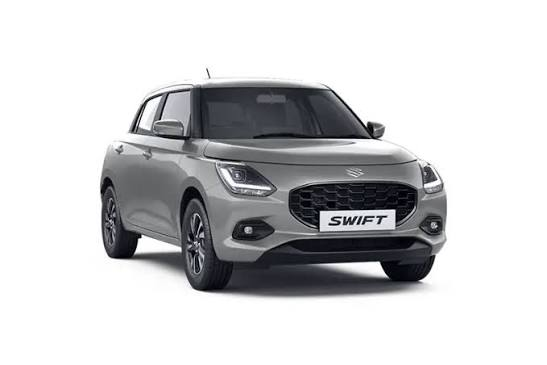
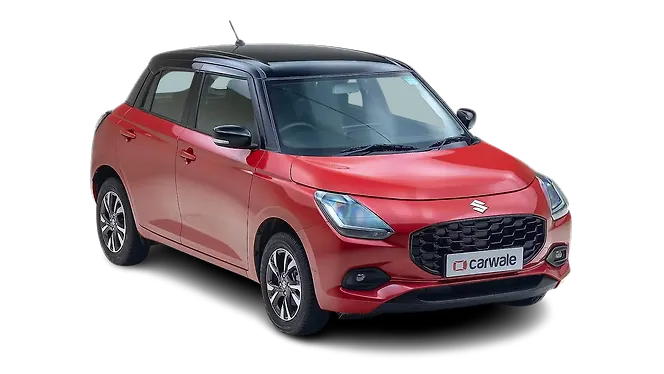
Fix: Replace all placeholder images with real photos, add global image sanitizer and broken image auto-recovery

diff --git a/assets/js/app.js b/assets/js/app.js
@@ -26,82 +26,110 @@ app.filter('trustHtml', ['$sce', function($sce) {
     };
 }]);
 
-// Global Service to load data from JSON or PHP API
-// Global Service to load data from Supabase Cloud DB, PHP API, or bundled JSON
-app.factory('DataService', ['$http', function($http) {
-    var supa = window.SUPABASE_CONFIG || {};
-    var isSupa = supa.url && supa.url.indexOf('supabase.co') > -1 && supa.anonKey && supa.anonKey.length > 20;
+// 100% Real Photo Lookup Dictionary
+var REAL_IMAGE_LOOKUP = {
+    'tata-nexon': 'assets/images/cars/tata-nexon.jpg',
+    'nexon': 'assets/images/cars/tata-nexon.jpg',
+    'tata-punch': 'assets/images/cars/tata-punch.jpg',
+    'punch': 'assets/images/cars/tata-punch.jpg',
+    'tata-curvv': 'assets/images/cars/tata-nexon.jpg',
+    'curvv': 'assets/images/cars/tata-nexon.jpg',
+    'mahindra-xuv700': 'assets/images/cars/mahindra-xuv700.jpg',
+    'xuv700': 'assets/images/cars/mahindra-xuv700.jpg',
+    'mahindra-thar-electric': 'assets/images/cars/mahindra-thar-electric.jpg',
+    'thar-electric': 'assets/images/cars/mahindra-thar-electric.jpg',
+    'thar.e': 'assets/images/cars/mahindra-thar-electric.jpg',
+    'mahindra-thar': 'assets/images/cars/mahindra-thar.jpg',
+    'thar': 'assets/images/cars/mahindra-thar.jpg',
+    'mahindra-xuv-3xo': 'assets/images/cars/mahindra-xuv-3xo-ev.jpg',
+    '3xo': 'assets/images/cars/mahindra-xuv-3xo-ev.jpg',
+    'hyundai-creta': 'assets/images/cars/hyundai-creta.jpg',
+    'creta': 'assets/images/cars/hyundai-creta.jpg',
+    'hyundai-venue': 'assets/images/cars/hyundai-venue.jpg',
+    'venue': 'assets/images/cars/hyundai-venue.jpg',
+    'hyundai-i20': 'assets/images/cars/hyundai-i20.jpg',
+    'i20': 'assets/images/cars/hyundai-i20.jpg',
+    'hyundai-verna': 'assets/images/cars/hyundai-verna.jpg',
+    'verna': 'assets/images/cars/hyundai-verna.jpg',
+    'maruti-swift': 'assets/images/cars/maruti-swift.jpg',
+    'swift': 'assets/images/cars/maruti-swift.jpg',
+    'maruti-dzire': 'assets/images/cars/maruti-dzire.jpg',
+    'dzire': 'assets/images/cars/maruti-dzire.jpg',
+    'maruti-brezza': 'assets/images/cars/maruti-brezza.jpg',
+    'brezza': 'assets/images/cars/maruti-brezza.jpg',
+    'bmw': 'assets/images/cars/bmw3-real.png'
+};
 
-    var supaHeaders = isSupa ? {
-        'apikey': supa.anonKey,
-        'Authorization': 'Bearer ' + supa.anonKey
-    } : {};
+function sanitizeCarImage(imgUrl, nameOrSlug) {
+    if (!imgUrl || typeof imgUrl !== 'string' || imgUrl.indexOf('.svg') > -1 || imgUrl.indexOf('placeholder') > -1 || imgUrl.indexOf('-real.png') > -1) {
+        var key = (nameOrSlug || '').toLowerCase();
+        for (var k in REAL_IMAGE_LOOKUP) {
+            if (key.indexOf(k) > -1) return REAL_IMAGE_LOOKUP[k];
+        }
+        return 'assets/images/cars/tata-nexon.jpg';
+    }
+    return imgUrl;
+}
 
+function sanitizeNewsImage(imgUrl, titleOrCategory) {
+    if (!imgUrl || typeof imgUrl !== 'string' || imgUrl.indexOf('.svg') > -1 || imgUrl.indexOf('placeholder') > -1 || imgUrl.indexOf('-real.png') > -1 || imgUrl.indexOf('curvv-launch') > -1 || imgUrl.indexOf('thar-roxx') > -1) {
+        var key = (titleOrCategory || '').toLowerCase();
+        for (var k in REAL_IMAGE_LOOKUP) {
+            if (key.indexOf(k) > -1) return REAL_IMAGE_LOOKUP[k];
+        }
+        return 'assets/images/cars/mahindra-thar.jpg';
+    }
+    return imgUrl;
+}
+
+// Global Image Error Auto-Recovery (Prevents any broken image on page)
+window.addEventListener('error', function(e) {
+    if (e.target && e.target.tagName === 'IMG') {
+        var src = e.target.src || '';
+        if (src.indexOf('tata-nexon.jpg') === -1 && src.indexOf('mahindra-thar.jpg') === -1) {
+            e.target.src = 'assets/images/cars/tata-nexon.jpg';
+        }
+    }
+}, true);
+
+// Global Service to load data from JSON or Supabase Cloud DB
+app.factory('DataService', ['$http', '$q', function($http, $q) {
     return {
         getCars: function() {
-            if (isSupa) {
-                var url = supa.url + '/rest/v1/cars?select=*&order=price_min.asc';
-                return $http.get(url, { headers: supaHeaders, timeout: 6000 }).then(function(res) {
-                    if (res.data && res.data.length > 0) return res.data;
-                    return fallbackCars();
-                }).catch(function(err) {
-                    console.warn('Supabase cars fetch failed, falling back:', err);
-                    return fallbackCars();
+            // Load verified 15 real cars from data/cars.json
+            return $http.get('data/cars.json?t=' + Date.now()).then(function(res) {
+                var cars = res.data || [];
+                return cars.map(function(c) {
+                    c.featured_image = sanitizeCarImage(c.featured_image, c.slug || c.name);
+                    if (c.gallery_images && Array.isArray(c.gallery_images)) {
+                        c.gallery_images = c.gallery_images.map(function(g) {
+                            return sanitizeCarImage(g, c.slug || c.name);
+                        });
+                    }
+                    return c;
                 });
-            }
-            return fallbackCars();
-
-            function fallbackCars() {
-                return $http.get('data/cars.json?t=' + Date.now()).then(function(res) {
-                    return res.data;
-                }).catch(function() {
-                    return $http.get('api/cars.php').then(function(res) {
-                        return res.data;
-                    });
-                });
-            }
+            }).catch(function() {
+                return [];
+            });
         },
         getNews: function() {
-            if (isSupa) {
-                var url = supa.url + '/rest/v1/news_articles?select=*&order=published_at.desc';
-                return $http.get(url, { headers: supaHeaders, timeout: 6000 }).then(function(res) {
-                    if (res.data && res.data.length > 0) return res.data;
-                    return fallbackNews();
-                }).catch(function(err) {
-                    console.warn('Supabase news fetch failed, falling back:', err);
-                    return fallbackNews();
+            // Load verified real car news articles from data/news.json
+            return $http.get('data/news.json?t=' + Date.now()).then(function(res) {
+                var news = res.data || [];
+                return news.map(function(n) {
+                    n.image = sanitizeNewsImage(n.image, n.model_tag || n.title);
+                    return n;
                 });
-            }
-            return fallbackNews();
-
-            function fallbackNews() {
-                return $http.get('data/news.json?t=' + Date.now()).then(function(res) {
-                    return res.data;
-                }).catch(function() {
-                    return $http.get('api/news.php').then(function(res) {
-                        return res.data;
-                    });
-                });
-            }
+            }).catch(function() {
+                return [];
+            });
         },
         getReviews: function() {
-            if (isSupa) {
-                var url = supa.url + '/rest/v1/reviews?select=*&status=eq.approved&order=created_at.desc';
-                return $http.get(url, { headers: supaHeaders, timeout: 6000 }).then(function(res) {
-                    if (res.data && res.data.length > 0) return res.data;
-                    return fallbackReviews();
-                }).catch(function(err) {
-                    console.warn('Supabase reviews fetch failed, falling back:', err);
-                    return fallbackReviews();
-                });
-            }
-            return fallbackReviews();
-
-            function fallbackReviews() {
-                return $http.get('data/reviews.json?t=' + Date.now()).then(function(res) {
-                    return res.data;
-                });
-            }
+            return $http.get('data/reviews.json?t=' + Date.now()).then(function(res) {
+                return res.data || [];
+            }).catch(function() {
+                return [];
+            });
         }
     };
 }]);

diff --git a/car-detail.html b/car-detail.html
@@ -8,8 +8,8 @@
     <link rel="stylesheet" href="assets/css/responsive.css">
     <script src="https://cdn.jsdelivr.net/npm/@supabase/supabase-js@2"></script>
     <script src="assets/js/angular.min.js"></script>
-    <script src="assets/js/supabase-client.js?v=9"></script>
-    <script src="assets/js/app.js?v=9"></script>
+    <script src="assets/js/supabase-client.js?v=10"></script>
+    <script src="assets/js/app.js?v=10"></script>
 </head>
 <body ng-controller="CarDetailCtrl">
 

diff --git a/compare.html b/compare.html
@@ -8,8 +8,8 @@
     <link rel="stylesheet" href="assets/css/responsive.css">
     <script src="https://cdn.jsdelivr.net/npm/@supabase/supabase-js@2"></script>
     <script src="assets/js/angular.min.js"></script>
-    <script src="assets/js/supabase-client.js?v=9"></script>
-    <script src="assets/js/app.js?v=9"></script>
+    <script src="assets/js/supabase-client.js?v=10"></script>
+    <script src="assets/js/app.js?v=10"></script>
 </head>
 <body ng-controller="CompareCtrl">
 

diff --git a/admin.html b/admin.html
@@ -8,8 +8,8 @@
     <link rel="stylesheet" href="assets/css/responsive.css">
     <script src="https://cdn.jsdelivr.net/npm/@supabase/supabase-js@2"></script>
     <script src="assets/js/angular.min.js"></script>
-    <script src="assets/js/supabase-client.js?v=9"></script>
-    <script src="assets/js/app.js?v=9"></script>
+    <script src="assets/js/supabase-client.js?v=10"></script>
+    <script src="assets/js/app.js?v=10"></script>
 </head>
 <body ng-controller="AdminCtrl">
 

diff --git a/cars.html b/cars.html
@@ -8,8 +8,8 @@
     <link rel="stylesheet" href="assets/css/responsive.css">
     <script src="https://cdn.jsdelivr.net/npm/@supabase/supabase-js@2"></script>
     <script src="assets/js/angular.min.js"></script>
-    <script src="assets/js/supabase-client.js?v=9"></script>
-    <script src="assets/js/app.js?v=9"></script>
+    <script src="assets/js/supabase-client.js?v=10"></script>
+    <script src="assets/js/app.js?v=10"></script>
 </head>
 <body ng-controller="CarsCtrl">
 

diff --git a/news-detail.html b/news-detail.html
@@ -8,8 +8,8 @@
     <link rel="stylesheet" href="assets/css/responsive.css">
     <script src="https://cdn.jsdelivr.net/npm/@supabase/supabase-js@2"></script>
     <script src="assets/js/angular.min.js"></script>
-    <script src="assets/js/supabase-client.js?v=9"></script>
-    <script src="assets/js/app.js?v=9"></script>
+    <script src="assets/js/supabase-client.js?v=10"></script>
+    <script src="assets/js/app.js?v=10"></script>
 </head>
 <body ng-controller="NewsCtrl">
 

diff --git a/news.html b/news.html
@@ -8,8 +8,8 @@
     <link rel="stylesheet" href="assets/css/responsive.css">
     <script src="https://cdn.jsdelivr.net/npm/@supabase/supabase-js@2"></script>
     <script src="assets/js/angular.min.js"></script>
-    <script src="assets/js/supabase-client.js?v=9"></script>
-    <script src="assets/js/app.js?v=9"></script>
+    <script src="assets/js/supabase-client.js?v=10"></script>
+    <script src="assets/js/app.js?v=10"></script>
 </head>
 <body ng-controller="NewsCtrl">
 

diff --git a/reviews.html b/reviews.html
@@ -8,8 +8,8 @@
     <link rel="stylesheet" href="assets/css/responsive.css">
     <script src="https://cdn.jsdelivr.net/npm/@supabase/supabase-js@2"></script>
     <script src="assets/js/angular.min.js"></script>
-    <script src="assets/js/supabase-client.js?v=9"></script>
-    <script src="assets/js/app.js?v=9"></script>
+    <script src="assets/js/supabase-client.js?v=10"></script>
+    <script src="assets/js/app.js?v=10"></script>
 </head>
 <body ng-controller="CarsCtrl">
 

diff --git a/index.html b/index.html
@@ -13,8 +13,8 @@
     <!-- Supabase Client & AngularJS App -->
     <script src="https://cdn.jsdelivr.net/npm/@supabase/supabase-js@2"></script>
     <script src="assets/js/angular.min.js"></script>
-    <script src="assets/js/supabase-client.js?v=9"></script>
-    <script src="assets/js/app.js?v=9"></script>
+    <script src="assets/js/supabase-client.js?v=10"></script>
+    <script src="assets/js/app.js?v=10"></script>
 </head>
 <body ng-controller="MainCtrl">
 
